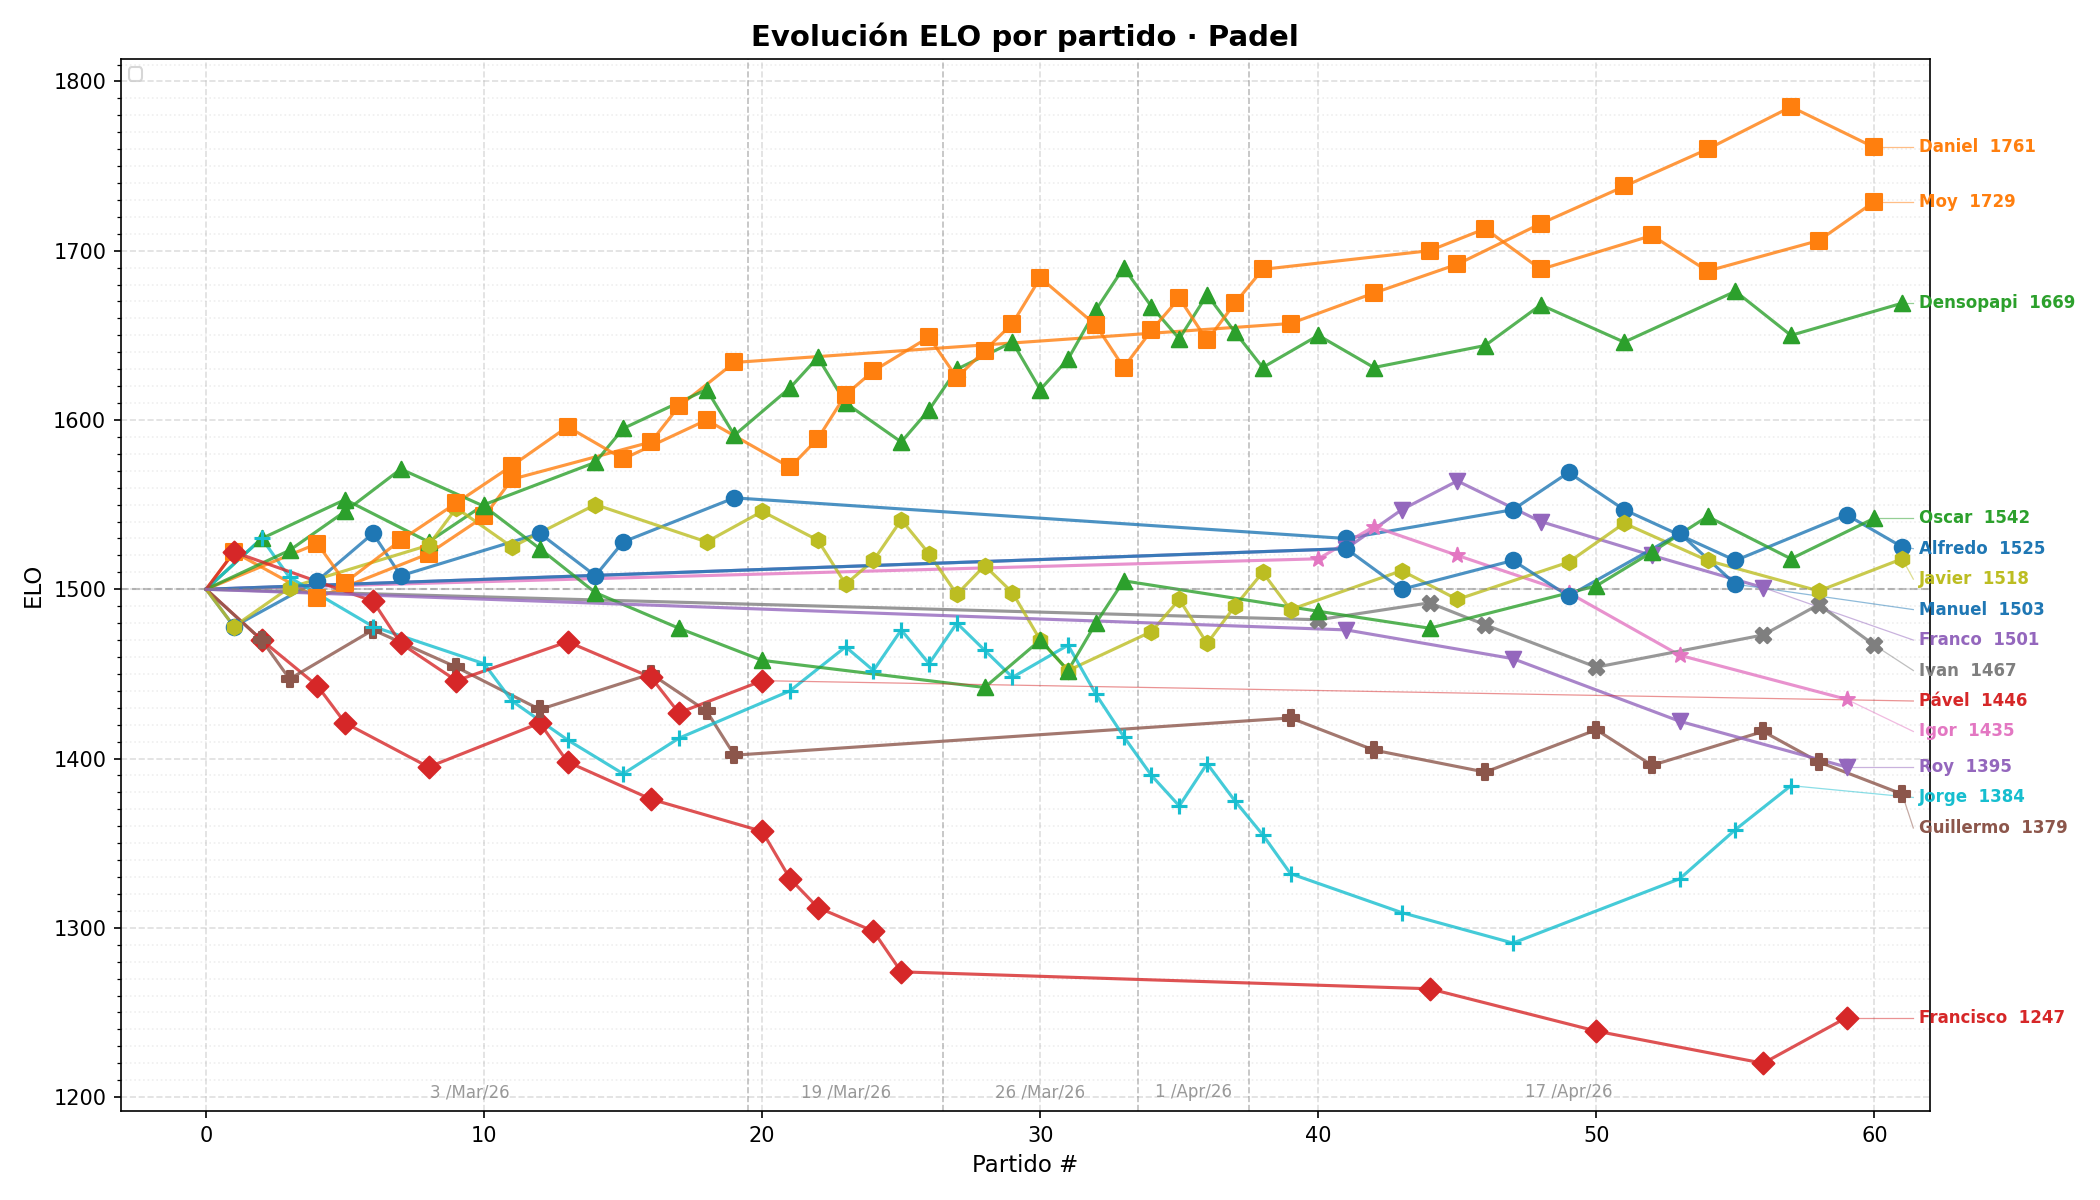
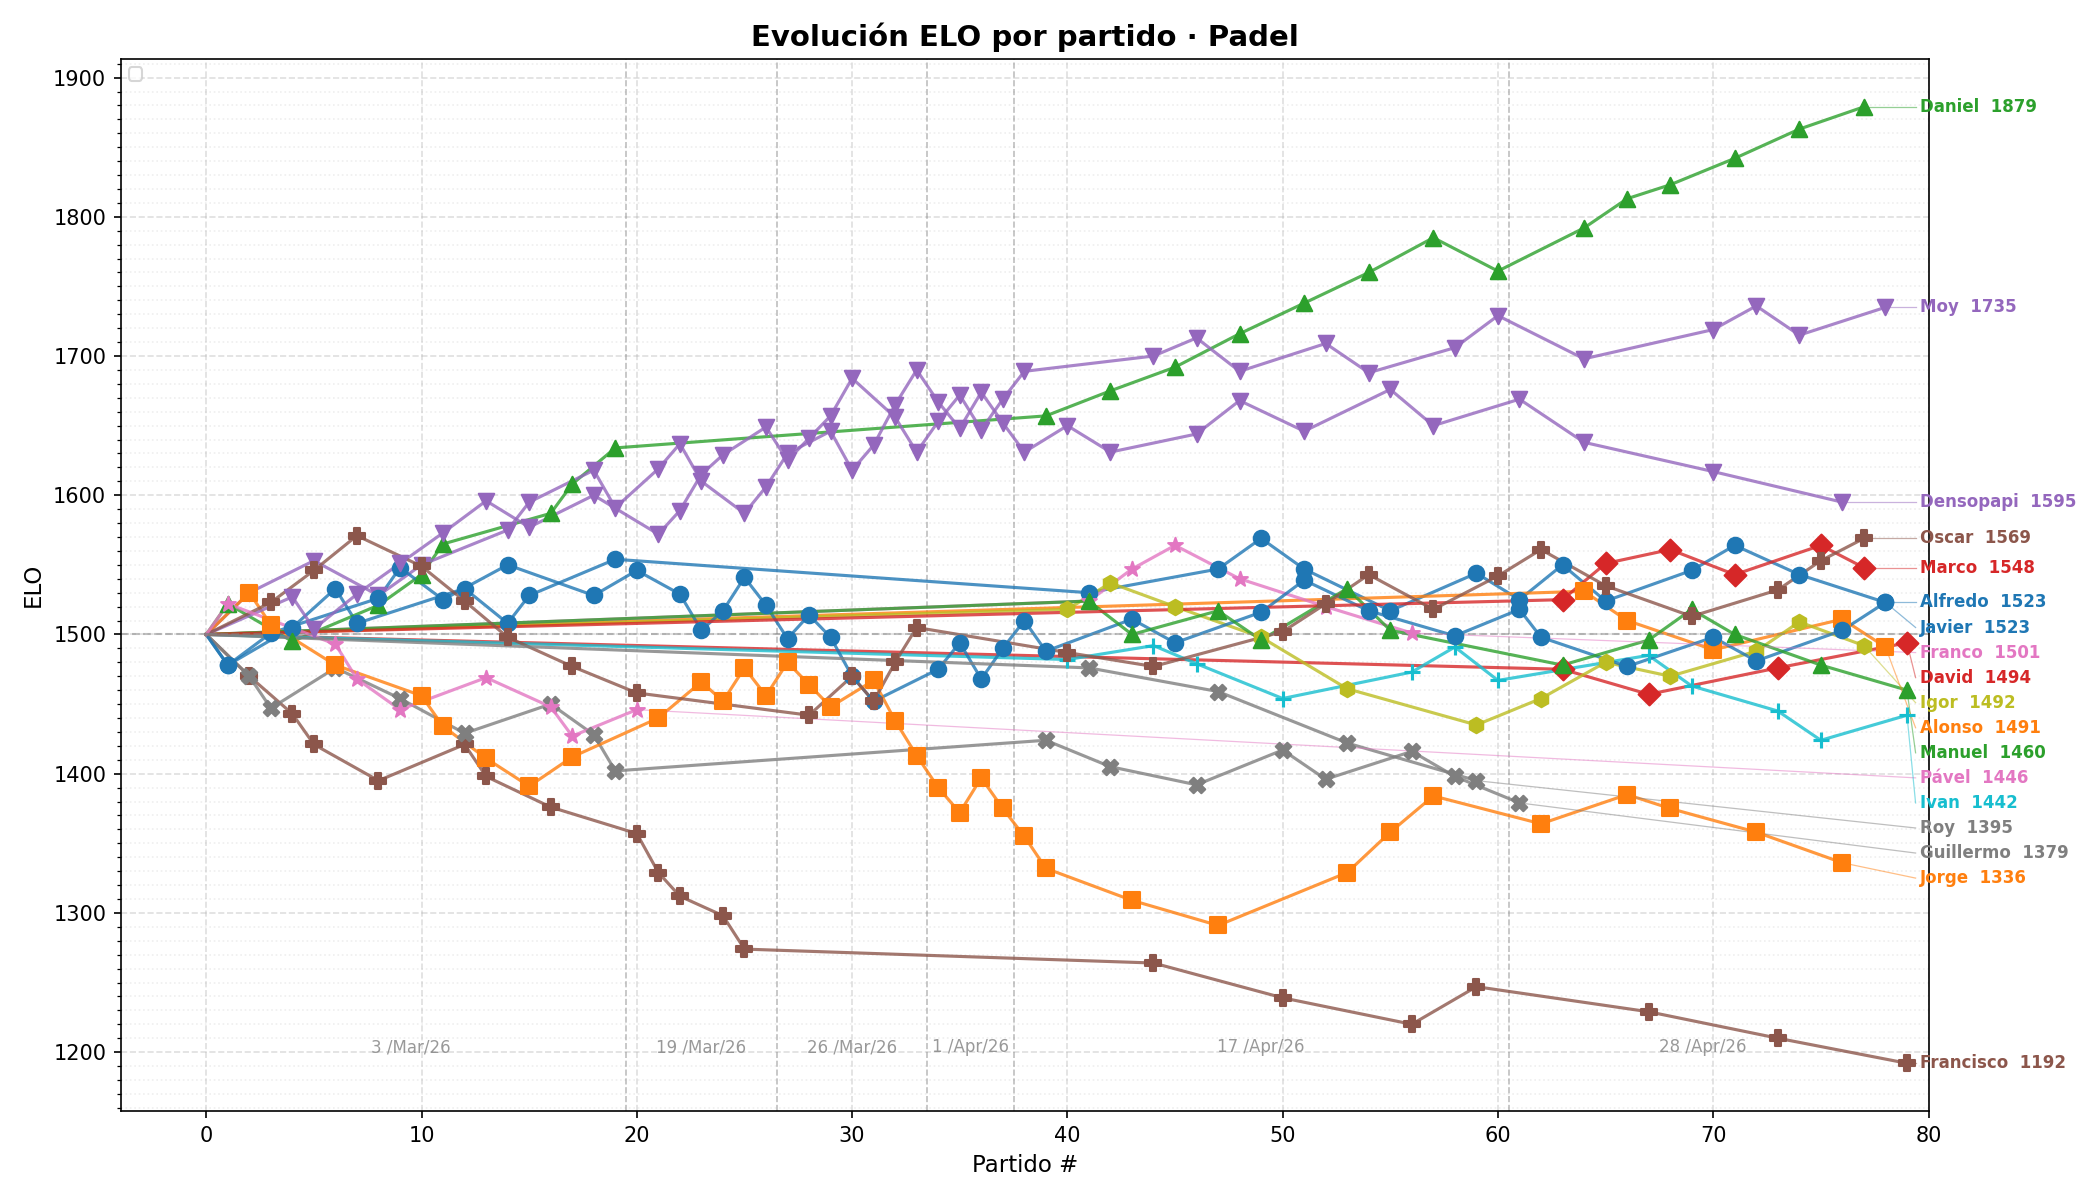
new game

diff --git a/padel_elo.py b/padel_elo.py
@@ -77,7 +77,25 @@ MATCHES_CSV = """Fecha,Ronda,Pista,Equipo 1,Equipo 2,Marcador
 17 /Apr/26,7,2,Javier / Guillermo,Moy / Ivan,1 - 4
 17 /Apr/26,7,3,Francisco / Alfredo,Roy / Igor,3 - 2
 17 /Apr/26,8,1,Ivan / Daniel,Moy / Oscar,2 - 3
-17 /Apr/26,8,2,Densopapi / Javier,Alfredo / Guillermo,4 - 1"""
+17 /Apr/26,8,2,Densopapi / Javier,Alfredo / Guillermo,4 - 1
+28 /Apr/26,1,1,Oscar / Igor,Javier / Jorge,3 - 2
+28 /Apr/26,1,2,Alfredo / Marco,David / Manuel,4 - 1
+28 /Apr/26,1,3,Densopapi / Moy,Daniel / Alonso,1 - 4
+28 /Apr/26,2,1,Oscar / Alfredo,Igor / Marco,2 - 3
+28 /Apr/26,2,2,Daniel / Jorge,Alonso / Javier,4 - 1
+28 /Apr/26,2,3,Ivan / Manuel,Chayito / David,4 - 1
+28 /Apr/26,3,1,Igor / Jorge,Marco / Daniel,1 - 4
+28 /Apr/26,3,2,Oscar / Ivan,Alfredo / Manuel,2 - 3
+28 /Apr/26,3,3,Densopapi / Alonso,Moy / Javier,2 - 3
+28 /Apr/26,4,1,Marco / Manuel,Daniel / Alfredo,0 - 5
+28 /Apr/26,4,2,Moy / Igor,Javier / Jorge,5 - 0
+28 /Apr/26,4,3,Chayito / Ivan,David / Oscar,0 - 5
+28 /Apr/26,5,1,Daniel / Igor,Alfredo / Moy,3 - 2
+28 /Apr/26,5,2,Manuel / Ivan,Oscar / Marco,1 - 4
+28 /Apr/26,5,3,Densopapi / Jorge,Alonso / Javier,2 - 3
+28 /Apr/26,6,1,Daniel / Oscar,Igor / Marco,5 - 0
+28 /Apr/26,6,2,Alfredo / Alonso,Moy / Javier,1 - 4
+28 /Apr/26,6,3,Chayito / Manuel,David / Ivan,1 - 4"""
 
 
 def normalize_name(name: str) -> str:
@@ -85,6 +103,8 @@ def normalize_name(name: str) -> str:
     name = name.strip()
     if name == "Denso":
         name = "Densopapi"
+    if name == "Chayito":
+        name = "Francisco"
     return name
 
 

diff --git a/README.md b/README.md
@@ -100,7 +100,7 @@ Tabla global con ELO total, victorias, derrotas, porcentaje de victorias, partid
 
 Una gráfica de líneas con la evolución del ELO de cada jugador sesión a sesión, guardada automáticamente en el directorio del proyecto.
 
-![Ejemplo de gráfica ELO](elo_evolution.png?v=3)
+![Ejemplo de gráfica ELO](elo_evolution.png?v=4)
 
 ---
 
@@ -189,6 +189,29 @@ Los resultados de los partidos están registrados en el siguiente spreadsheet:
 | 13 | Jorge | 1384 |
 | 14 | Guillermo | 1379 |
 | 15 | Francisco | 1247 |
+
+### 28/Apr/26
+
+| # | Jugador | ELO |
+|---|---------|-----|
+| 🥇 | Daniel | 1879 |
+| 🥈 | Moy | 1735 |
+| 🥉 | Densopapi | 1595 |
+| 4 | Oscar | 1569 |
+| 5 | Marco | 1548 |
+| 6 | Alfredo | 1523 |
+| 7 | Javier | 1523 |
+| 8 | Franco | 1501 |
+| 9 | David | 1494 |
+| 10 | Igor | 1492 |
+| 11 | Alonso | 1491 |
+| 12 | Manuel | 1460 |
+| 13 | Pável | 1446 |
+| 14 | Ivan | 1442 |
+| 15 | Roy | 1395 |
+| 16 | Guillermo | 1379 |
+| 17 | Jorge | 1336 |
+| 18 | Francisco | 1192 |
 
 ---
 
